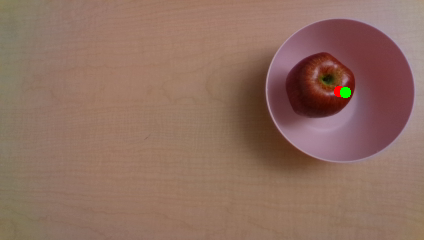
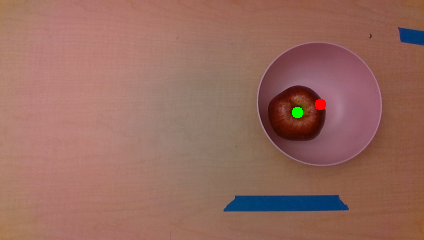
finished tipping part

diff --git a/src/move_arm/src/ik_example.py b/src/move_arm/src/ik_example.py
@@ -8,7 +8,10 @@ from numpy import linalg
 from geometry_msgs.msg import Point, PointStamped
 from std_msgs.msg import String
 from intera_interface import gripper as robot_gripper
+from intera_interface import Limb
 import sys
+import tf.transformations as tf
+
 
 FOOD_LOC = (0.747, -0.264, 0.074)
 UTENSIL_LOC = (0.747, -0.464, 0.074)
@@ -39,6 +42,7 @@ def main():
     # self.goal_point_sub = rospy.Subscriber("/goal_point", Point, None)
     # Set up the right gripper
     right_gripper = robot_gripper.Gripper('right_gripper')
+    limb = Limb("right")
 
     ik_class = IKExample()
 
@@ -49,6 +53,58 @@ def main():
         right_gripper.open()
         rospy.sleep(1.0)
         print('Done!')
+
+                        # Python's syntax for a main() method# Construct the request
+        request = GetPositionIKRequest()
+        request.ik_request.group_name = "right_arm"
+
+        input('Press [ Enter ] for fourth movement: ')
+
+        # If a Sawyer does not have a gripper, replace '_gripper_tip' with '_wrist' instead
+        # link = "stp_022312TP99620_tip_1"
+        link = "right_gripper_tip"
+
+        request.ik_request.ik_link_name = link
+        # request.ik_request.attempts = 20
+        request.ik_request.pose_stamped.header.frame_id = "base"
+        
+        # Set the desired orientation for the end effector HERE
+        # request.ik_request.pose_stamped.pose.position.x = type_loc[0]
+        # request.ik_request.pose_stamped.pose.position.y = type_loc[1] 
+        # request.ik_request.pose_stamped.pose.position.z = type_loc[2] 
+        request.ik_request.pose_stamped.pose.position.x = 0.687 
+        request.ik_request.pose_stamped.pose.position.y = 0.159
+        request.ik_request.pose_stamped.pose.position.z = 0.383    
+        request.ik_request.pose_stamped.pose.orientation.x = 0.0
+        request.ik_request.pose_stamped.pose.orientation.y = 1.0
+        request.ik_request.pose_stamped.pose.orientation.z = 0.0
+        request.ik_request.pose_stamped.pose.orientation.w = 0
+        
+        try:
+            # Send the request to the service
+            response = compute_ik(request)
+            
+            # Print the response HERE
+            print(response)
+            group = MoveGroupCommander("right_arm")
+
+            # Setting position and orientation target
+            group.set_pose_target(request.ik_request.pose_stamped)
+
+            # TRY THIS
+            # Setting just the position without specifying the orientation
+            # group.set_position_target([ik_class.goal_x, ik_class.goal_y, ik_class.goal_z])
+
+            # Plan IK
+            plan = group.plan()
+            user_input = input("Enter 'y' if the trajectory looks safe on RVIZ")
+            
+            # Execute IK if safe
+            if user_input == 'y':
+                group.execute(plan[1])
+            
+        except rospy.ServiceException as e:
+            print("Service call failed: %s"%e)
         
         
         
@@ -181,7 +237,7 @@ def main():
         request = GetPositionIKRequest()
         request.ik_request.group_name = "right_arm"
 
-        input('Press [ Enter ] for fourth movement: ')
+        input('Press [ Enter ] for third movement: ')
 
         # If a Sawyer does not have a gripper, replace '_gripper_tip' with '_wrist' instead
         # link = "stp_022312TP99620_tip_1"
@@ -228,17 +284,103 @@ def main():
             
         except rospy.ServiceException as e:
             print("Service call failed: %s"%e)
+        
+
+        current_angles = limb.joint_angles()
+        print("Current joint angles: ", current_angles)
+
+        desired_joint_pos = {
+            "right_j0": current_angles["right_j0"],
+            "right_j1": current_angles["right_j1"],
+            "right_j2": current_angles["right_j2"],
+            "right_j3": current_angles["right_j3"],
+            "right_j4": current_angles["right_j4"] - 1.57,
+            "right_j5": current_angles["right_j5"],
+            "right_j6": current_angles["right_j6"],
+        }
+
+        print(desired_joint_pos)
+
+        input('Press [ Enter ] for tipping: ')
+
+        limb.move_to_joint_positions(desired_joint_pos)
 
         
-        # Open the right gripper
-        print('Opening...')
-        right_gripper.open()
-        rospy.sleep(1.0)
-        print('Done!')
+        # # Open the right gripper
+        # print('Opening...')
+        # right_gripper.open()
+        # rospy.sleep(1.0)
+        # print('Done!')
+
+                #         # Python's syntax for a main() method# Construct the request
+        # request = GetPositionIKRequest()
+        # request.ik_request.group_name = "right_arm"
+
+        # input('Press [ Enter ] for fourth movement: ')
+
+        # # If a Sawyer does not have a gripper, replace '_gripper_tip' with '_wrist' instead
+        # # link = "stp_022312TP99620_tip_1"
+        # link = "right_gripper_tip"
+
+        # request.ik_request.ik_link_name = link
+        # # request.ik_request.attempts = 20
+        # request.ik_request.pose_stamped.header.frame_id = "base"
+        
+        # Set the desired orientation for the end effector HERE
+        # request.ik_request.pose_stamped.pose.position.x = type_loc[0]
+        # request.ik_request.pose_stamped.pose.position.y = type_loc[1] 
+        # request.ik_request.pose_stamped.pose.position.z = type_loc[2] 
+
+        # q_initial = [0, 1, 0 ,0]
+        # theta = -90 * (3.141592653/180.0)
+        # q_rot = [np.cos(theta/2), np.sin(theta/2),0,0]
+        # q_new = tf.quaternion_multiply(q_rot, q_initial)
+
+
+        # request.ik_request.pose_stamped.pose.position.x = 0.687 
+        # request.ik_request.pose_stamped.pose.position.y = 0.159 - 0.47
+        # request.ik_request.pose_stamped.pose.position.z = 0.383 + 0.47   
+        # request.ik_request.pose_stamped.pose.orientation.x = 0
+        # request.ik_request.pose_stamped.pose.orientation.y = 1
+        # request.ik_request.pose_stamped.pose.orientation.z = 0
+        # request.ik_request.pose_stamped.pose.orientation.w = 0
+
+
+        # request.ik_request.pose_stamped.pose.position.x = 1.0126691798806136
+        # request.ik_request.pose_stamped.pose.position.y = 0.1599
+        # request.ik_request.pose_stamped.pose.position.z = 0.287   
+        # request.ik_request.pose_stamped.pose.orientation.x = 0.597
+        # request.ik_request.pose_stamped.pose.orientation.y = -0.497
+        # request.ik_request.pose_stamped.pose.orientation.z = 0.483
+        # request.ik_request.pose_stamped.pose.orientation.w = -0.4033
+            
+        # try:
+        #     # Send the request to the service
+        #     response = compute_ik(request)
+            
+        #     # Print the response HERE
+        #     print(response)
+        #     group = MoveGroupCommander("right_arm")
+
+        #     # Setting position and orientation target
+        #     group.set_pose_target(request.ik_request.pose_stamped)
+
+        #     # TRY THIS
+        #     # Setting just the position without specifying the orientation
+        #     # group.set_position_target([ik_class.goal_x, ik_class.goal_y, ik_class.goal_z])
+
+        #     # Plan IK
+        #     plan = group.plan()
+        #     user_input = input("Enter 'y' if the trajectory looks safe on RVIZ")
+            
+        #     # Execute IK if safe
+        #     if user_input == 'y':
+        #         group.execute(plan[1])
+            
+        # except rospy.ServiceException as e:
+        #     print("Service call failed: %s"%e)
 
 # Python's syntax for a main() method
 if __name__ == '__main__':
     main()
 
-if __name__ == '__main__':
-    main()
